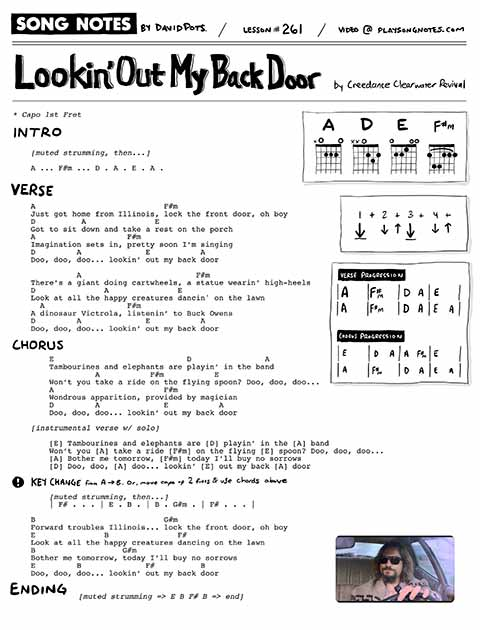
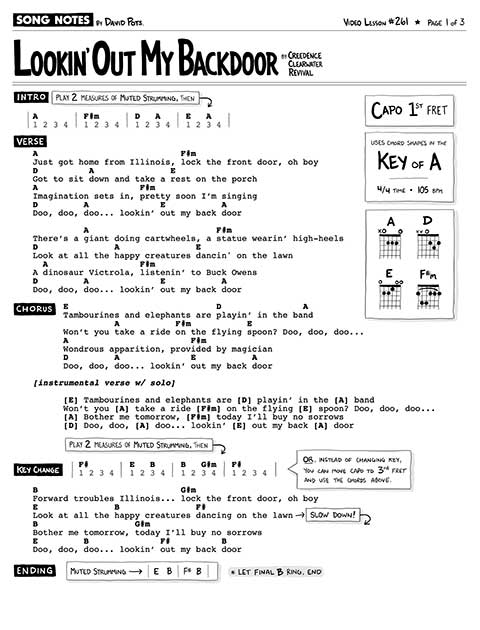
Adds 261 mn url and also backlog update

Changed region(s): [[0.0, 0.0, 1.0, 0.9651]]

diff --git a/_lessons/261 [Creedence Clearwater Revival] Lookin' out my back door.md b/_lessons/261 [Creedence Clearwater Revival] Lookin' out my back door.md
@@ -10,8 +10,9 @@ date_published: 2019-10-19
 tags: [Full Song Lesson, 1970s, Key of A, Classic Rock, Fingerstyle]
 hidden_tags: CCR, creedance
 slug: "261"
-pdf_version: copyright
-pdf_numpages: 2
+pdf_version: musicnotes
+pdf_numpages: 3
+musicnotes_url: https://www.musicnotes.com/l/BK7Mb
 patreon_lesson_available: true
 patreon_lesson_url: https://www.patreon.com/posts/30708535
 ---
@@ -33,70 +34,6 @@ patreon_lesson_url: https://www.patreon.com/posts/30708535
 Here's a quick lesson for the CCR song "Lookin' Out My Back Door" – performed fingerstyle with no capo. This is what I'd call an "easy" or "lazy" approach to this song, where I'm taking a very accessible route when it comes to the capo (not using one), fingerpicking (using an easy pattern), and key change (not bothering withit here). While not the stuff of virtuosos, this approach makes for a good campfire take on the song - which sometimes is all you need to feel the musical goodness.
 
 I plan on eventually tackling a more thorough lesson of this song (complete with muted strumming, chord changes, a few guitar licks, etc) – but that will be for another day.
-
-## Lyrics w/ chords
-
-    ** Capo 1st Fret
-
-    INTRO
-        [muted strumming, then...]
-
-        A ... F#m ... D . A . E . A .
-
-    VERSE
-        A                            F#m
-        Just got home from Illinois, lock the front door, oh boy
-        D          A               E
-        Got to sit down and take a rest on the porch
-        A                    F#m
-        Imagination sets in, pretty soon I’m singing
-        D         A              E           A
-        Doo, doo, doo... lookin’ out my back door
-
-                  A                         F#m
-        There’s a giant doing cartwheels, a statue wearin’ high-heels
-        D               A               E
-        Look at all the happy creatures dancin' on the lawn
-          A                  F#m
-        A dinosaur Victrola, listenin’ to Buck Owens
-        D         A              E           A
-        Doo, doo, doo... lookin’ out my back door
-
-    CHORUS
-            E                             D                A
-            Tambourines and elephants are playin’ in the band
-                      A           F#m           E
-            Won’t you take a ride on the flying spoon? Doo, doo, doo...
-            A                        F#m
-            Wondrous apparition, provided by magician
-            D         A              E           A
-            Doo, doo, doo... lookin’ out my back door
-
-        [instrumental verse w/ solo]
-
-            [E] Tambourines and elephants are [D] playin’ in the [A] band
-            Won’t you [A] take a ride [F#m] on the flying [E] spoon? Doo, doo, doo...
-            [A] Bother me tomorrow, [F#m] today I’ll buy no sorrows
-            [D] Doo, doo, [A] doo... lookin’ [E] out my back [A] door
-
-    KEY CHANGE - or keep using chords above after moving capo up 2 frets
-
-            [muted strumming, then...]
-
-            | F# . . . | E . B . | B . G#m . | F# . . . |
-
-        B                            G#m
-        Forward troubles Illinois... lock the front door, oh boy
-        E               B               F#
-        Look at all the happy creatures dancing on the lawn
-        B                   G#m
-        Bother me tomorrow, today I’ll buy no sorrows
-        E         B              F#          B
-        Doo, doo, doo... lookin’ out my back door
-
-    OUTRO
-
-        [muted strumming => E B F# B => end]
 
 ## Other notes
 

diff --git a/backlog.md b/backlog.md
@@ -18,6 +18,7 @@ permalink: /backlog/
 
 Here's the songs I've most recently re-listed for purchase at Musicnotes.com. Each arrangement is officially licensed & legal, and also uses my latest sheet music formatting.
 
+- May 16 - [Lookin' Out My Backdoor](https://playsongnotes.com/lessons/261/)
 - May 9  - [American Girl](https://playsongnotes.com/lessons/113/)
 - May 2  - [Creep](https://playsongnotes.com/lessons/153/)
 - Apr 26 - [LA Freeway](https://playsongnotes.com/lessons/101/)
@@ -82,7 +83,6 @@ Here's the songs I've most recently re-listed for purchase at Musicnotes.com. Ea
     7 Years                     XXX
     Let It Go                   XXX
     Light On •                  XXX
-    Lookin' Out My Backdoor     XXXXX
     Running Down a Dream        XXXXXX
     Say It Ain't So             XXXX
     Surf Rider                  XXXXXX
